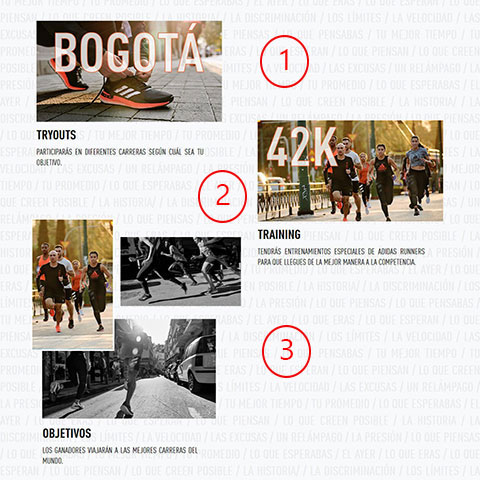
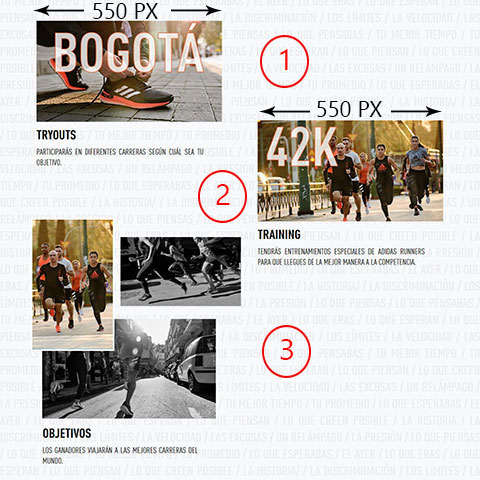
Added translate to pt-br

Changed region(s): [[0.0625, 0.0, 0.4688, 0.0625], [0.5312, 0.1875, 0.9062, 0.25]]

diff --git a/resources/views/landing/brasil.blade.php b/resources/views/landing/brasil.blade.php
@@ -45,13 +45,13 @@
                     <div class="row justify-content-center">
                         <div class="container align-middle">
                             <a href="#" scroll-to="bazinga" duration="1800"
-                                class="btn btn-block btn-dark">INSCRIBIRME</a>
+                                class="btn btn-block btn-dark">INSCREVA-SE</a>
                         </div>
                     </div>
                 </div>
                 <div class="col-xl-7 ml-auto">
                     <div class="video-thumbnail">
-                        <div class="youtube" id="m6ciWfZt5JQ" src="./img/video-player.png"></div>
+                        <div class="youtube" id="BHZ8bBvTsF8" src="./img/video-player.png"></div>
                     </div>
                 </div>
             </div>
@@ -251,8 +251,7 @@
     <!-- Map -->
     <section class="map text-center">
         <div class="container">
-            <h1>SPEED RUNNERS 2020, una carrera para romper marcas, hecha para los que entrenan duro y corren
-                mas</h1>
+            <h1>SPEED RUNNERS 2020. PARA OS QUE TREINAM DURO E BUSCAM SER MAIS RÁPIDOS QUE ONTEM.</h1>
         </div>
         <div class="map-image">
             <div class="container-fluid h-100">
@@ -261,23 +260,23 @@
                         <ul class="timeline" id="timeline">
                             <li class="li complete full">
                                 <div id="statuc" class="status">
-                                    <h1>Ciudad</h1>
+                                    <h1>CIDADE</h1>
                                 </div>
                                 <div class="info">
-                                    <p id="statud">Bogotá</p>
+                                    <p id="statud">SÃO PAULO</p>
                                 </div>
                             </li>
                             <li class="li complete ">
                                 <div id="statuf" class="status">
-                                    <h1 id="statug">Lugar</h1>
+                                    <h1 id="statug">LOCAL</h1>
                                 </div>
                                 <div class="info ">
-                                    <p id="statuh" class="site">Parque el virrey<br> Cra 15 #86a-50</p>
+                                    <p id="statuh" class="site">Praça Charles Miller s/n - Pacaembu</p>
                                 </div>
                             </li>
                             <li class="li complete full">
                                 <div id="statu1" class="status">
-                                    <h1 id="statu2">Fecha</h1>
+                                    <h1 id="statu2">DATA</h1>
                                 </div>
                                 <div class="info">
                                     <p id="statu3">10/02/2020</p>
@@ -285,7 +284,7 @@
                             </li>
                             <li class="li complete full">
                                 <div id="statu4" class="status status-last">
-                                    <h1 id="final1">Kilometros</h1>
+                                    <h1 id="final1">Quilômetros</h1>
                                 </div>
                                 <div class="info space" id="final2">
                                     <p class="d-inline px-3">10k</p>
@@ -306,74 +305,74 @@
             <div class="container container-incription" ng-if="!dataSend">
                 <div class="row justify-content-center">
                     <div class="col-lg-8 title">
-                        <h1>Inscripción</h1>
+                        <h1>Inscrição</h1>
                     </div>
                     <div class="row justify-content-center">
                         <div class="col-lg-9 inputs">
                             <div class="form-row form-row-space justify-content-around">
                                 <div class="form-group col-md-6">
-                                    <label class="float-label" for="inputNames">NOMBRES</label>
+                                    <label class="float-label" for="inputNames">NOME</label>
                                     <input type="text" ng-model="names" required
                                         ng-class="namesErr ? 'form-control error' : 'form-control'" class="form-control"
                                         name="inputNames" id="inputNames" aria-describedby="namesHelp"
                                         placeholder="escriba sus nombres">
                                     <div ng-show="namesErr">
-                                        <small id="namesHelp" class="form-text">Falta registrar los nombres
+                                        <small id="namesHelp" class="form-text">Os nomes não foram registrados
                                             *</small>
                                     </div>
                                 </div>
                                 <div class="form-group col-md-6">
-                                    <label class="float-label" for="inputLastnames">APELLIDOS</label>
+                                    <label class="float-label" for="inputLastnames">SOBRENOME</label>
                                     <input type="text" required ng-model="lastnames"
                                         ng-class="lastErr ? 'form-control error' : 'form-control'" class="form-control"
                                         name="inputLastnames" id="inputLastnames" aria-describedby="lastnamesHelp"
                                         placeholder="escriba sus apellidos">
                                     <div ng-show="lastErr">
-                                        <small id="lastnamesHelp" class="form-text">Falta registrar los apellidos
+                                        <small id="lastnamesHelp" class="form-text">Os sobrenomes não foram registrados
                                             *</small>
                                     </div>
                                 </div>
                             </div>
                             <div class="form-row justify-content-around break">
                                 <div class="form-group col-md-6">
-                                    <label class="float-label" for="inputEmail">EMAIL</label>
+                                    <label class="float-label" for="inputEmail">E-MAIL</label>
                                     <input type="email" required ng-model="email"
                                         ng-class="emailErr ? 'form-control error' : 'form-control'" class="form-control"
                                         name="inputEmail" id="inputEmail" aria-describedby="emailHelp"
                                         placeholder="escriba su email">
                                     <div ng-show="emailErr">
-                                        <small id="emailHelp" class="form-text">El email es inválido
+                                        <small id="emailHelp" class="form-text">O e-mail é inválido
                                             *</small>
                                     </div>
                                 </div>
                                 <div class="form-group form-radio col-md-6">
-                                    <label class="float-label-2">GÉNERO</label>
+                                    <label class="float-label-2">GÊNERO</label>
                                     <div class="btn-group btn-group-toggle" data-toggle="buttons">
-                                        <label class="btn btn-light active" ng-click="selectGender('MASCULINO')">
-                                            <input type="radio" name="options" id="male" checked> MASCULINO
+                                        <label class="btn btn-light active" ng-click="selectGender('HOMEM')">
+                                            <input type="radio" name="options" id="male" checked> HOMEM
                                         </label>
-                                        <label class="btn btn-light" ng-click="selectGender('FEMENINO')">
-                                            <input type="radio" name="options" id="female"> FEMENINO
+                                        <label class="btn btn-light" ng-click="selectGender('MULHER')">
+                                            <input type="radio" name="options" id="female"> MULHER
                                         </label>
-                                        <label class="btn btn-light" ng-click="selectGender('OTRO')">
-                                            <input type="radio" name="options" id="other"> OTRO
+                                        <label class="btn btn-light" ng-click="selectGender('PREFERE NÃO')">
+                                            <input type="radio" name="options" id="other"> PREFERE NÃO
                                         </label>
                                     </div>
                                 </div>
                             </div>
                             <div class="form-row justify-content-around break">
                                 <div class="form-group col-md-6">
-                                    <label class="float-label" for="inputAge">FECHA DE NACIMIENTO</label>
+                                    <label class="float-label" for="inputAge">DATA DE NASCIMIENTO</label>
                                     <input type="text" name="inputAge" maxlengh="10" angular-mask="0000/00/00"
                                         ng-model="age" ng-class="ageErr ? 'form-control error' : 'form-control'"
                                         class="form-control" id="inputAge" placeholder="AAAA/MM/DD">
                                     <div ng-show="ageErr">
-                                        <small id="emailHelp" class="form-text">La fecha de nacimiento es inválida
+                                        <small id="emailHelp" class="form-text">A data de nascimento é inválida
                                             *</small>
                                     </div>
                                 </div>
                                 <div class="form-group form-radio col-md-6">
-                                    <label class="float-label-2">ZAPATILLAS</label>
+                                    <label class="float-label-2">MARCA DE CALÇADO</label>
                                     <div class="btn-group btn-group-toggle" data-toggle="buttons">
                                         <label class="btn btn-light active" ng-click="selectShoes('ADIDAS')">
                                             <input type="radio" name="options" id="shoes1" checked> ADIDAS
@@ -381,8 +380,8 @@
                                         <label class="btn btn-light" ng-click="selectShoes('REEBOK')">
                                             <input type="radio" name="options" id="shoes2"> REEBOK
                                         </label>
-                                        <label class="btn btn-light" ng-click="selectShoes('OTRAS')">
-                                            <input type="radio" name="options" id="shoes3"> OTRAS
+                                        <label class="btn btn-light" ng-click="selectShoes('OUTROS')">
+                                            <input type="radio" name="options" id="shoes3"> OUTROS
                                         </label>
                                     </div>
                                 </div>
@@ -396,7 +395,7 @@
                                             RUNNERS
                                         </label>
                                         <label class="btn btn-light" ng-click="toggle()">
-                                            <input type="radio" name="options" id="team2"> OTRO
+                                            <input type="radio" name="options" id="team2"> OUTROS
                                         </label>
                                     </div>
                                 </div>
@@ -406,7 +405,7 @@
                                         placeholder="escriba a qué equipo pertenece">
                                 </div>
                                 <div class="form-group form-radio col-md-6">
-                                    <label class="float-label-2">DISTANCIA</label>
+                                    <label class="float-label-2">DISTÂNCIA</label>
                                     <div class="btn-group btn-group-toggle" data-toggle="buttons">
                                         <label class="btn btn-light active" ng-click="selectDistance('10 K')">
                                             <input type="radio" name="options" id="distance1" checked> 10 K
@@ -422,7 +421,7 @@
                             </div>
                             <div class="form-row justify-content-around">
                                 <div class="form-group form-radio col-md-12">
-                                    <label class="float-label-2">MI MEJOR TIEMPO</label>
+                                    <label class="float-label-2">MEHU MELHOR TEMPO</label>
                                     <div class="btn-group btn-group-toggle" data-toggle="buttons">
                                         <label class="btn btn-light active" ng-click="selectTime('30 MIN')">
                                             <input type="radio" name="options" id="time1"> 30 MIN
@@ -442,16 +441,13 @@
                                 <div class="form-group col-md-12">
                                     <div class="form-check">
                                         <input ng-model="accept" name="inputAccept" id="terms" type="checkbox">
-                                        <label class="terms_conditions" for="terms">Acepto <a href="#">términos
-                                                y condiciones</a>.</label>
+                                        <label class="terms_conditions" for="terms">Aceito <a href="#">termos e condições</a>.</label>
                                         <span></span>
                                     </div>
                                     <div class="form-check">
                                         <input id="newsletter" ng-model="newsletter" name="inputNewsletter"
                                             type="checkbox">
-                                        <label for="newsletter">Quiero recibir noticias sobre productos y
-                                            servicios de
-                                            adidas. <a href="#">¿Qué significa esto?</a></label>
+                                        <label for="newsletter">Desejo receber noticias sobre productos e ofertas da adidas. <a href="#">O que significa isso?</a></label>
                                         <span></span>
                                     </div>
                                 </div>
@@ -459,7 +455,7 @@
                             <div class="col-lg-12 submit">
                                 <div class="col-md-6 offset-md-3">
                                     <a type="button" ng-click="verify(true)"
-                                        class="btn btn-dark btn-lg btn-block">INSCRIBIRME</a>
+                                        class="btn btn-dark btn-lg btn-block">CONFIRMAR INSCRIÇÃO</a>
                                 </div>
                             </div>
                         </div>
@@ -468,45 +464,45 @@
                     <div class="col-lg-8 data-table" ng-if="dataCheck == true">
                         <div class="col-lg-12 information">
                             <div class="col-lg-12 title title-data">
-                                <h1>Información registrada</h1>
+                                <h1>Informações registradas</h1>
                             </div>
                             <div class="col-lg-12 data">
                                 <div class="container">
                                     <div class="row datatable">
                                         <div class="col-sm-6 col-md-1 form-title">
-                                            Nombres:
+                                            Nome:
                                         </div>
                                         <div class="col-sm-6 col-md-5 form-data"
                                             ng-bind="adidasForm.inputNames.$viewValue">
                                         </div>
                                         <div class="col-sm-6 col-md-1 form-title">
-                                            Apellidos:
+                                            Sobrenome:
                                         </div>
                                         <div class="col-sm-6 col-md-5 form-data"
                                             ng-bind="adidasForm.inputLastnames.$viewValue">
 
                                         </div>
                                         <div class="col-sm-6 col-md-1 form-title">
-                                            Email:
+                                            E-mail:
                                         </div>
                                         <div class="col-sm-6 col-md-5 form-data"
                                             ng-bind="adidasForm.inputEmail.$viewValue">
 
                                         </div>
                                         <div class="col-sm-6 col-md-1 form-title">
-                                            Género:
+                                            Gênero:
                                         </div>
                                         <div class="col-sm-6 col-md-5 form-data" ng-bind="gender">
 
                                         </div>
                                         <div class="col-sm-6 col-md-1 form-title">
-                                            Fecha:
+                                            Data:
                                         </div>
                                         <div class="col-sm-6 col-md-5 form-data">
                                             @{{ ageFull }}
                                         </div>
                                         <div class="col-sm-6 col-md-1 form-title">
-                                            Zapatillas:
+                                            Calçado:
                                         </div>
                                         <div class="col-sm-6 col-md-5 form-data" ng-bind="shoes">
 
@@ -518,13 +514,13 @@
 
                                         </div>
                                         <div class="col-sm-6 col-md-1 form-title">
-                                            Distancia:
+                                            Distância:
                                         </div>
                                         <div class="col-sm-6 col-md-5 form-data" ng-bind="distance">
 
                                         </div>
                                         <div class="col-sm-6 col-md-1 form-title form-last">
-                                            Tiempo:
+                                            Tempo:
                                         </div>
                                         <div class="col-sm-6 col-md-11 form-data form-last" ng-bind="time">
 
@@ -540,7 +536,7 @@
                                         </div>
                                         <div class="col-sm-3 col-md-5">
                                             <button type="button" ng-click="sendData()"
-                                                class="btn btn-dark btn-lg btn-block">Guardar</button>
+                                                class="btn btn-dark btn-lg btn-block">Salvar inscripción</button>
                                         </div>
                                     </div>
                                 </div>
@@ -560,10 +556,10 @@
                             </div>
                             <div class="col-lg-8 d-flex align-items-center">
                                 <div>
-                                    <h1 class="success-title">Hola @{{ namesFull }}
+                                    <h1 class="success-title">Olá @{{ namesFull }}
                                     </h1>
                                     <p class="success-message">
-                                        Pronto estaremos enviando más información al email registrado.
+                                        Em breve enviaremos os dados de inscrição ao email registrado.
                                     </p>
                                 </div>
                             </div>
